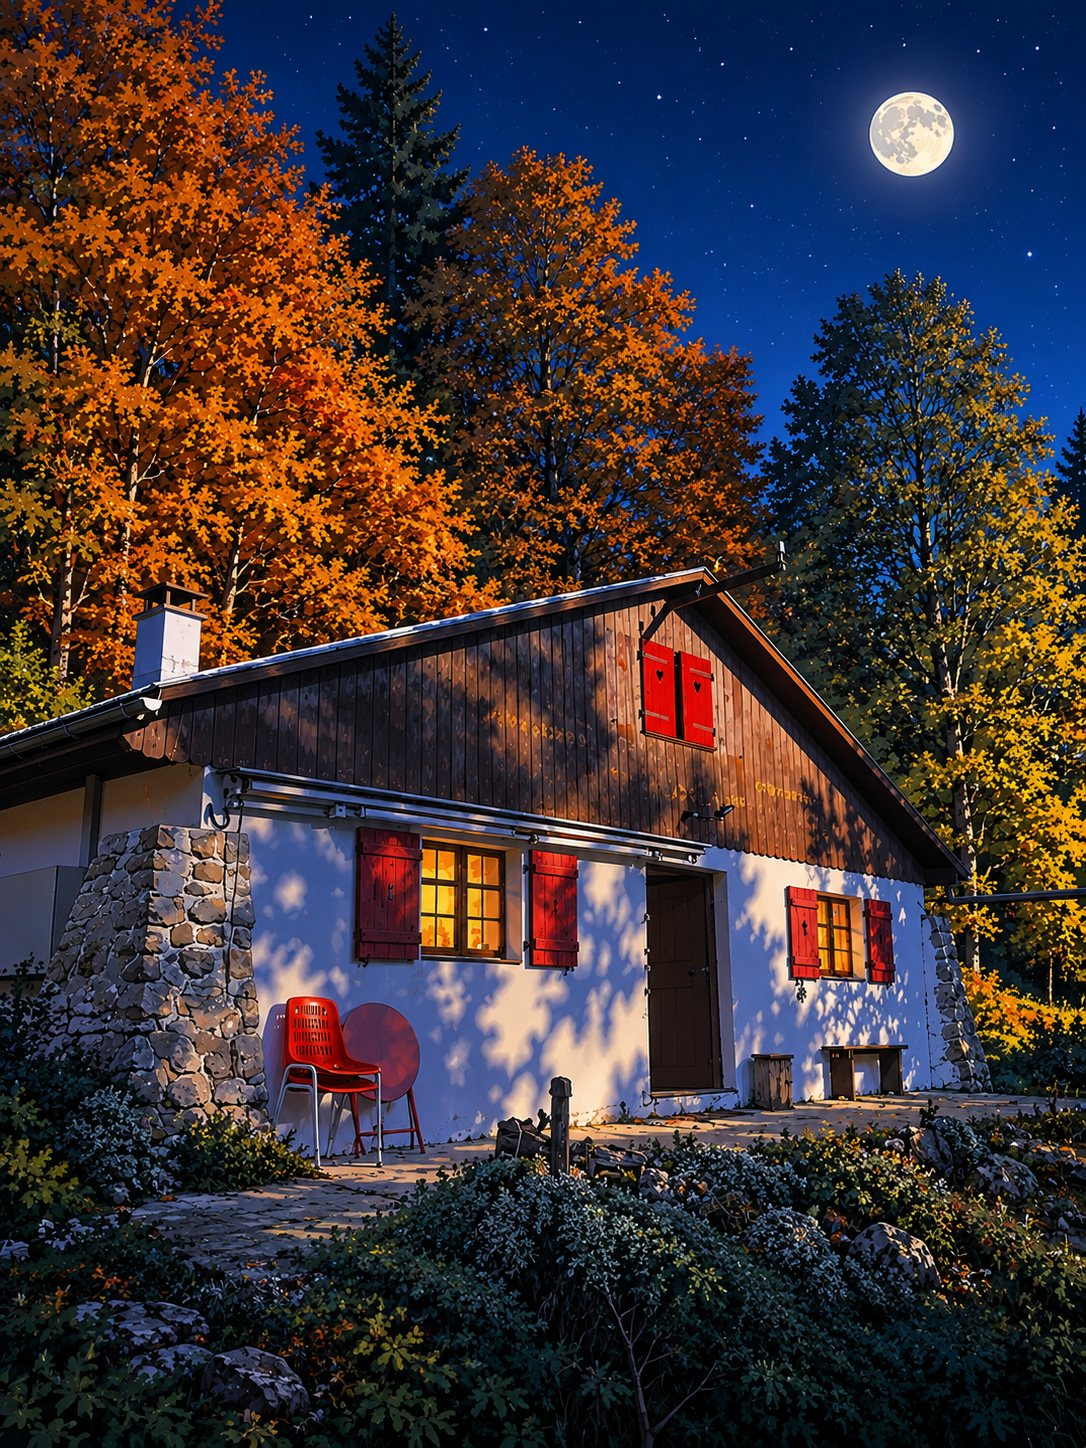
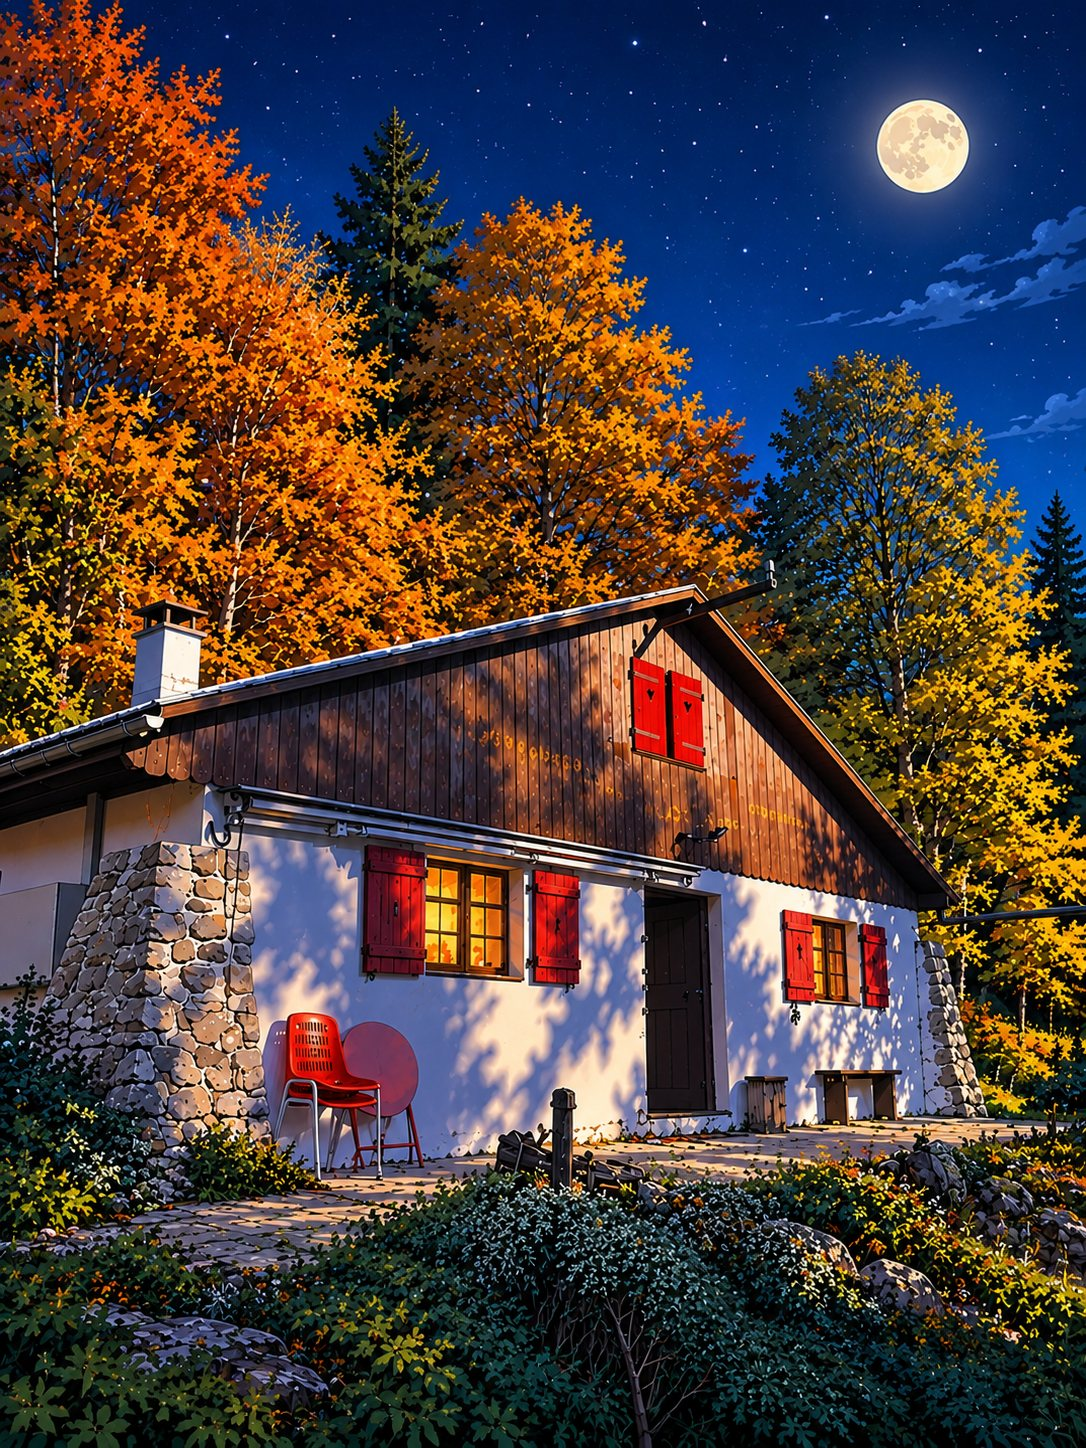
Tag- und neues Nachtbild im Hochformat (#21)
Claude-Session: https://claude.ai/code/session_01Q2LnyBfcFAWDSrNtZrbnpt

diff --git a/docs/extras.js b/docs/extras.js
@@ -58,7 +58,7 @@ const scene = { st: null, c: {}, parts: [], raf: null, last: 0, built: false };
 
 // Bilder des Hauses je nach Tageszeit (Mond, Sterne und Fensterlicht sind gemalt)
 const ART = {
-  tag: ["img/haus-tag.jpg"], morgen: ["img/haus-morgen.jpg"], abend: ["img/haus-abend.jpg", "img/haus-abend-hoch.jpg"],
+  tag: ["img/haus-tag.jpg", "img/haus-tag-hoch.jpg"], morgen: ["img/haus-morgen.jpg"], abend: ["img/haus-abend.jpg", "img/haus-abend-hoch.jpg"],
   nacht: ["img/haus-nacht.jpg", "img/haus-nacht-hoch.jpg"],   // quer, hoch (für schmale Bildschirme)
 };
 const artPhase = (st, now) => st.elev < -6 ? "nacht" : st.elev < 10 ? (now.getHours() < 12 ? "morgen" : "abend") : "tag";
